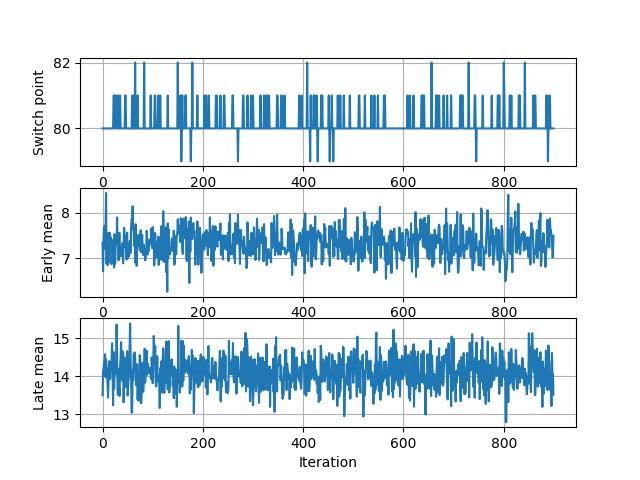
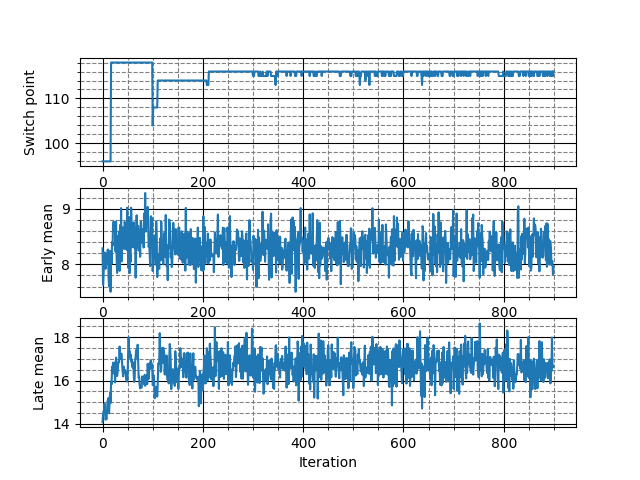
fix grids

Changed region(s): [[0.0312, 0.125, 0.9062, 0.3438], [0.0625, 0.6562, 0.9062, 0.9062], [0.0938, 0.4062, 0.9062, 0.625]]

diff --git a/experiment1.py b/experiment1.py
@@ -16,7 +16,9 @@ plt.plot(years, arr, '-ok')
 plt.xlim(y0, y1)
 plt.xlabel("Year")
 plt.ylabel("Number of storms")
-plt.grid()
+plt.minorticks_on()
+plt.grid(b=True, which='major', color='black', linestyle='-')
+plt.grid(b=True, which='minor', color='grey', linestyle='--')
 plt.savefig("storms.png")
 plt.clf()
 
@@ -48,16 +50,22 @@ mcmc.sample(iter=10000, burn=1000, thin=10)
 plt.subplot(311)
 plt.plot(mcmc.trace('switchpoint')[:])
 plt.ylabel("Switch point")
-plt.grid()
+plt.minorticks_on()
+plt.grid(b=True, which='major', color='black', linestyle='-')
+plt.grid(b=True, which='minor', color='grey', linestyle='--')
 plt.subplot(312)
 plt.plot(mcmc.trace('early_mean')[:])
 plt.ylabel("Early mean")
-plt.grid()
+plt.minorticks_on()
+plt.grid(b=True, which='major', color='black', linestyle='-')
+plt.grid(b=True, which='minor', color='grey', linestyle='--')
 plt.subplot(313)
 plt.plot(mcmc.trace('late_mean')[:])
 plt.xlabel("Iteration")
 plt.ylabel("Late mean")
-plt.grid()
+plt.minorticks_on()
+plt.grid(b=True, which='major', color='black', linestyle='-')
+plt.grid(b=True, which='minor', color='grey', linestyle='--')
 plt.savefig("markov_chains.png")
 plt.clf()
 
@@ -65,15 +73,21 @@ plt.subplot(131)
 plt.hist(mcmc.trace('switchpoint')[:] + y0, 15)
 plt.xlabel("Switch point")
 plt.ylabel("Distribution")
-plt.grid()
+plt.minorticks_on()
+plt.grid(b=True, which='major', color='grey', linestyle='-')
+plt.grid(b=True, which='minor', color='grey', linestyle='--')
 plt.subplot(132)
 plt.hist(mcmc.trace('early_mean')[:], 15)
 plt.xlabel("Early mean")
-plt.grid()
+plt.minorticks_on()
+plt.grid(b=True, which='major', color='grey', linestyle='-')
+plt.grid(b=True, which='minor', color='grey', linestyle='--')
 plt.subplot(133)
 plt.hist(mcmc.trace('late_mean')[:], 15)
 plt.xlabel("Late mean")
-plt.grid(linestyle='dashed', linewidth=1)
+plt.minorticks_on()
+plt.grid(b=True, which='major', color='grey', linestyle='-')
+plt.grid(b=True, which='minor', color='grey', linestyle='--')
 plt.savefig("distribution.png")
 plt.clf()
 
@@ -89,11 +103,9 @@ plt.plot([yp, y1], [lm, lm], '-r', lw=3)
 plt.xlim(y0, y1)
 plt.xlabel("Year")
 plt.ylabel("Number of storms")
-# plt.grid()
-# plt.set_axisbelow(True)
 plt.minorticks_on()
-plt.grid(which='major', linestyle='-', linewidth='0.5', color='blue')
-plt.grid(which='minor', linestyle=':', linewidth='0.5', color='black')
+plt.grid(b=True, which='major', color='black', linestyle='-')
+plt.grid(b=True, which='minor', color='grey', linestyle='--')
 plt.savefig("rate.png")
 plt.clf()
 
